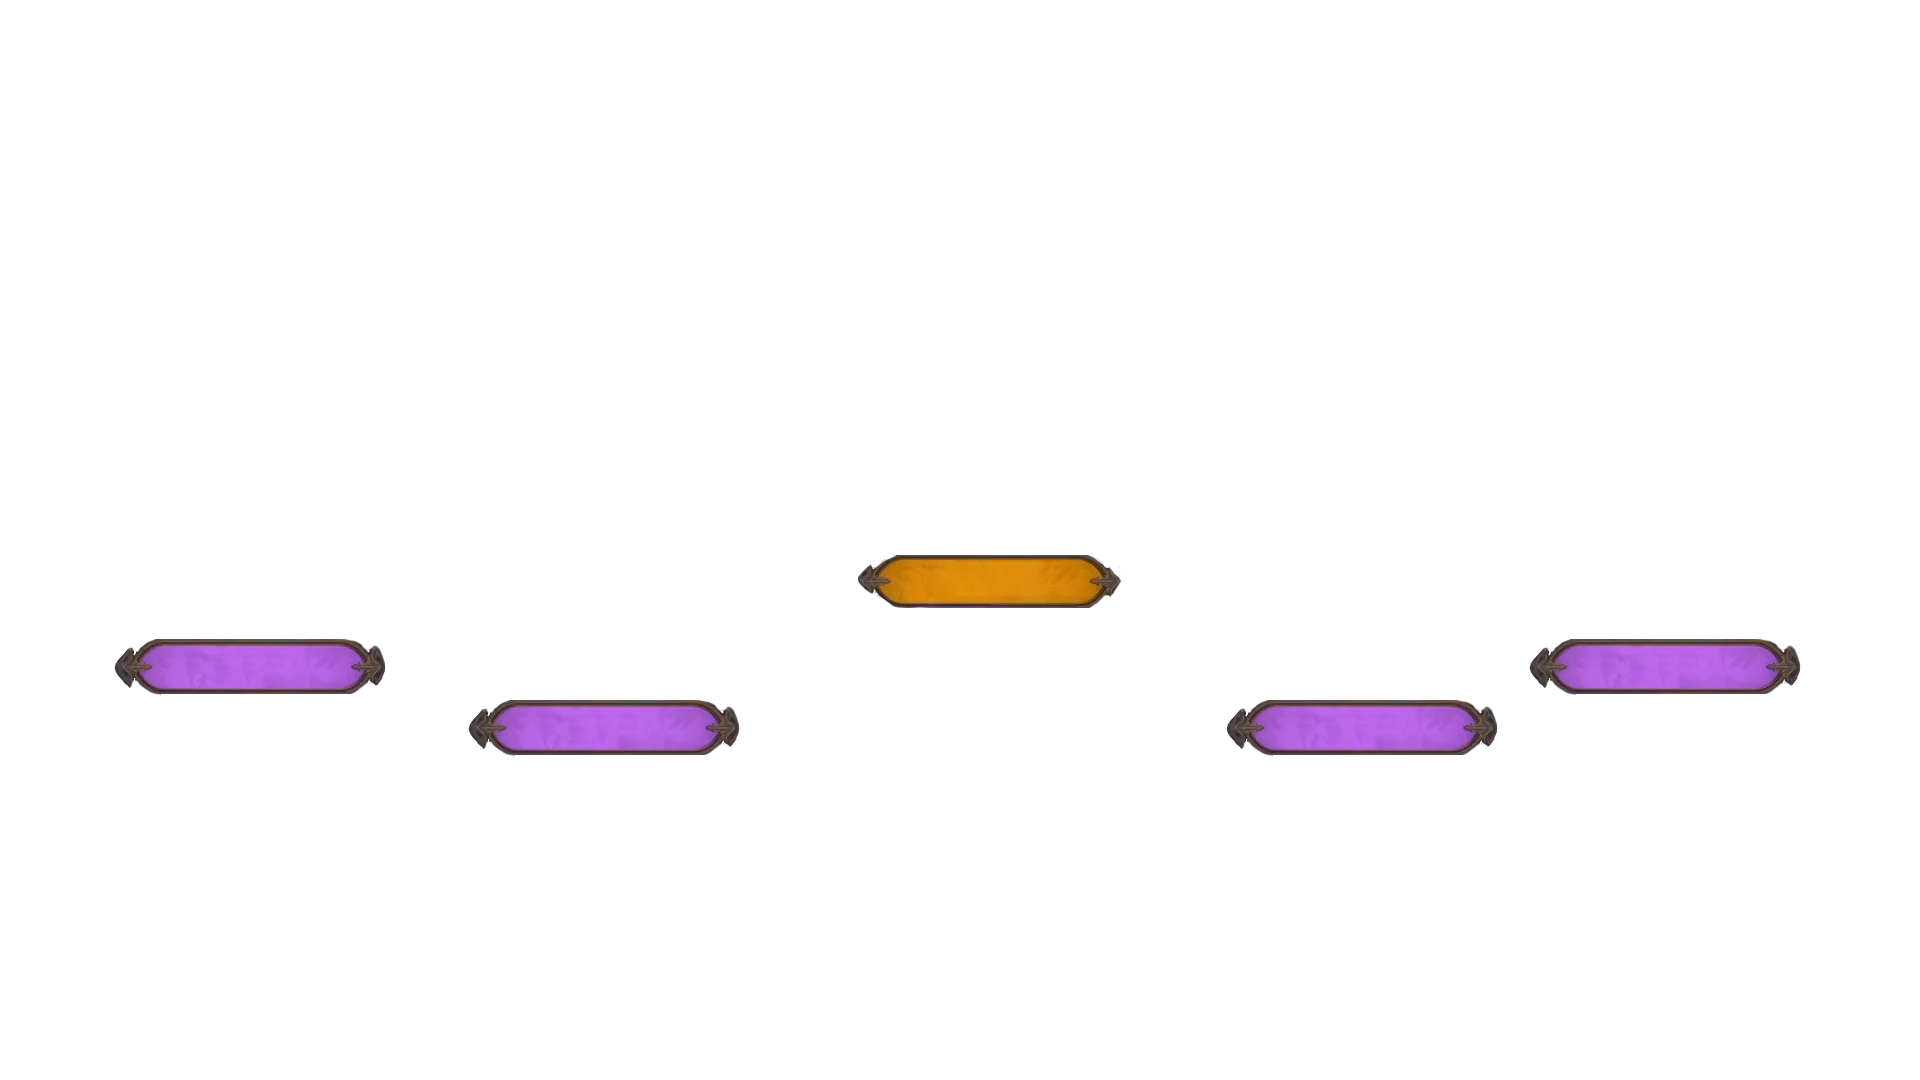
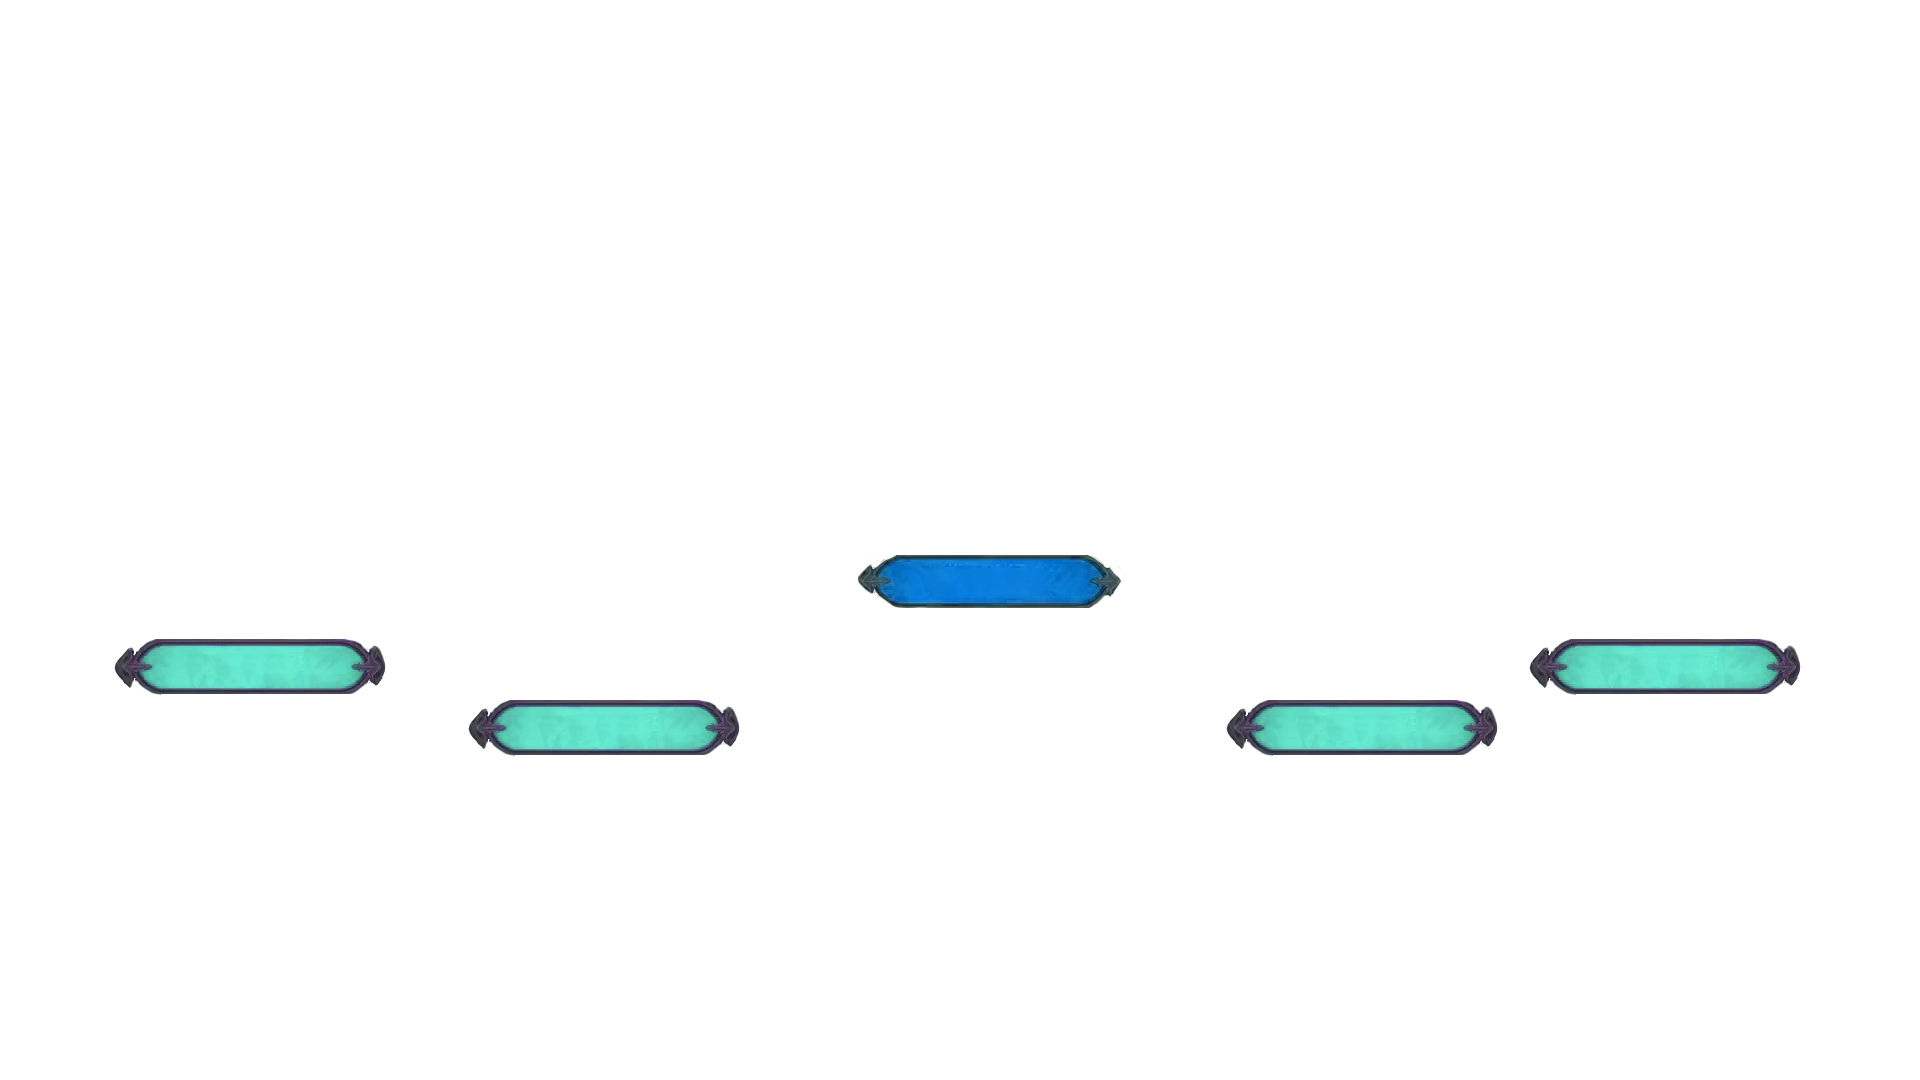
V2.81更新了UI

diff --git a/bp-sys-wpf/Config.cs b/bp-sys-wpf/Config.cs
@@ -4,7 +4,7 @@ namespace bp_sys_wpf
 {
     public static class Config
     {
-        public static string version { get; set; } = "V2.8-ASG";
+        public static string version { get; set; } = "V2.81-ASG";
         public static bool Border { get; set; }
         public static class Front
         {
